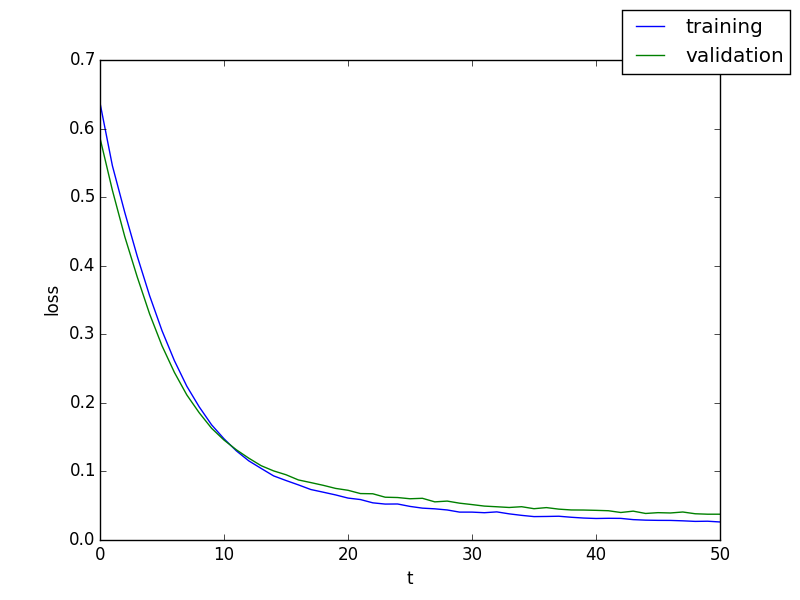
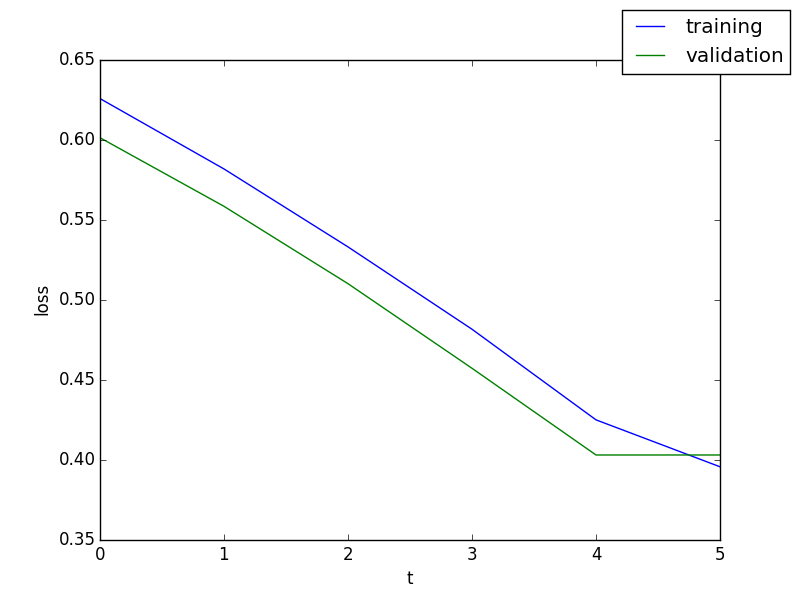
minor update

diff --git a/learners/base.py b/learners/base.py
@@ -17,7 +17,7 @@ class Trainer(object):
     def __init__(self, optimizer, data, gpu=-1, iter_snapshot=None, out='result'):
         """
 
-        :param optimizer: optimizer to train model
+        :param optimizer: optimizer(s) to train model(s)
         :param data_iterator: iterator over the training data
         :param validation: optional validation iterator (selects optimal model)
         :param gpu: device flag
@@ -133,7 +133,7 @@ class Learner(object):
         self.epoch_snapshot = epoch_snapshot
 
         # figure handles
-        self.gfx = [None, None, None]
+        self.gfx = [None, None, None]  # fig, axis, data handles
 
     def run(self, n_epochs=1):
         """

diff --git a/examples/test_contextnet.py b/examples/test_contextnet.py
@@ -85,7 +85,7 @@ class ContextLayer(chainer.Link):
             W = F.broadcast_to(W, [batch_size] + sz)
             zz = F.tile(F.reshape(z[:,i],[batch_size,1,1]),tuple([1] + sz))
             C = zz * W
-            y += F.squeeze(F.batch_matmul(F.expand_dims(x,2),C,transa=True,transb=True), 1)
+            y += F.squeeze(F.batch_matmul(C, x), 2)
         y += F.tile(self.b,tuple([batch_size,1]))
 
         return y
@@ -152,7 +152,7 @@ class ContextMLP(ChainList):
 ## Main
 
 # parameters
-n_epochs = 50
+n_epochs = 5
 
 # get training and validation data
 train_data = ClassificationDataset()

diff --git a/learners/supervised_learner.py b/learners/supervised_learner.py
@@ -22,7 +22,7 @@ class StatelessTrainer(Trainer):
             data = self.data
 
         if plot:
-            gfx = [None, None, None]
+            gfx = [None, None, None] # fig, axis, data handles
 
         cumloss = 0
 

diff --git a/README.md b/README.md
@@ -1,6 +1,13 @@
 # Cognitive Modeling Suite (CMS)
 
 Framework for neural network modeling and analysis of cognitive processes.
+The aim of this framework is to provide a generic approach to training
+and testing of neural networks on supervised, unsupervised and reinforcement
+learning tasks. It will support life-long learning and the use of multiple
+agents at the same time.
+
+For specific resource intensive applications it is adviced to develop
+optimized code. Still, snippets from CMS can be of use in that context.
 
 ## Analysis
 
@@ -73,3 +80,6 @@ This is simplified by a call to TrialIterator. Also requires that the data is or
 * Add support for multiple agents in life-long learning setting
 * Add facility to compare different models/approaches/optimizers
 * Generate full documentation on the fly using Sphinx/Read the Docs
+* Add support for multiple optimizers in Trainer and multiple models in Tester
+* Move basic datasets to version testing; keep core codebase as clean
+as possible, e.g. by moving part of this code to specific test cases
